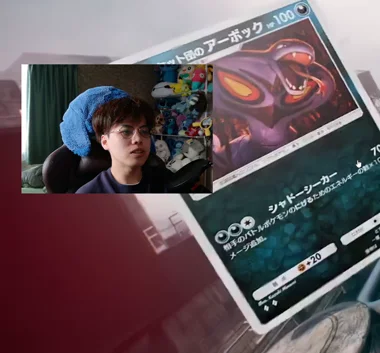
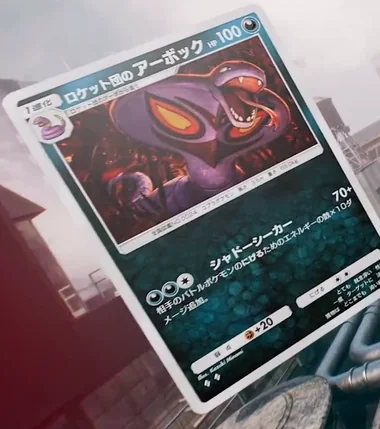
ポケポケ: ロケット団の野望記事、アーボックのカード画像を顔カメラなしの公式映像に差し替え
進化段階表記(たね→1進化)も画面表記に合わせて修正

diff --git a/pokepoke/guide-rocket-dan-no-yabou.html b/pokepoke/guide-rocket-dan-no-yabou.html
@@ -231,7 +231,7 @@
         <figure><img src="cards/rocket_garagara.webp" alt="ガラガラ" width="190" height="248" loading="lazy"><figcaption>ガラガラ<br><span class="rar">闘・1進化</span></figcaption></figure>
         <figure><img src="cards/rocket_dekanuchan.webp" alt="ロケット団のデカヌチャン" width="190" height="288" loading="lazy"><figcaption>ロケット団のデカヌチャン<br><span class="rar">エスパー・2進化</span></figcaption></figure>
         <figure><img src="cards/rocket_delvil.webp" alt="ロケット団のデルビル" width="190" height="288" loading="lazy"><figcaption>ロケット団のデルビル<br><span class="rar">炎・たね</span></figcaption></figure>
-        <figure><img src="cards/rocket_arbok.webp" alt="ロケット団のアーボック" width="190" height="177" loading="lazy"><figcaption>ロケット団のアーボック<br><span class="rar">悪・たね</span></figcaption></figure>
+        <figure><img src="cards/rocket_arbok.webp" alt="ロケット団のアーボック" width="190" height="215" loading="lazy"><figcaption>ロケット団のアーボック<br><span class="rar">悪・1進化</span></figcaption></figure>
         <figure><img src="cards/rocket_sleeper.webp" alt="ロケット団のスリーパー" width="190" height="173" loading="lazy"><figcaption>ロケット団のスリーパー<br><span class="rar">エスパー・1進化</span></figcaption></figure>
         <figure><img src="cards/rocket_dorobou_machine.webp" alt="ロケット団のどろぼうマシン" width="190" height="212" loading="lazy"><figcaption>ロケット団のどろぼうマシン<br><span class="rar">グッズ</span></figcaption></figure>
         <figure><img src="cards/rocket_daisakusen.webp" alt="ロケット団の大作戦" width="190" height="203" loading="lazy"><figcaption>ロケット団の大作戦<br><span class="rar">サポート</span></figcaption></figure>
@@ -253,7 +253,7 @@
         <tr><td><strong>ガラガラ</strong></td><td>闘・1進化（カラカラから）</td><td>110</td><td>こらしめる50＋相手が「ロケット団」名なら+70。<strong>唯一「ロケット団の」が付かない収録カード</strong></td></tr>
         <tr><td><strong>ロケット団のデカヌチャン</strong></td><td>エスパー・2進化（ナカヌチャンから）</td><td>140</td><td>くいうちハンマー80＋次の相手の番、相手のワザ・にげるコストを無色2個分増加。弱点悪+20</td></tr>
         <tr><td><strong>ロケット団のデルビル</strong></td><td>炎・たね</td><td>60</td><td>ひだね（炎1）20ダメージ。弱点水+20／にげる1</td></tr>
-        <tr><td><strong>ロケット団のアーボック</strong></td><td>悪・たね</td><td>100</td><td>シャドーシーカー70＋相手のにげるエネの数×10追加。弱点格闘+20</td></tr>
+        <tr><td><strong>ロケット団のアーボック</strong></td><td>悪・1進化</td><td>100</td><td>シャドーシーカー70＋相手のにげるエネの数×10追加。弱点格闘+20</td></tr>
         <tr><td><strong>ロケット団のスリーパー</strong></td><td>エスパー・1進化</td><td>90</td><td>わなにはめる：相手ベンチと入れ替え、新しく出たポケモンに50。弱点悪+20</td></tr>
         <tr><td><strong>ロケット団のどろぼうマシン</strong></td><td>グッズ</td><td>-</td><td>相手のトラッシュからグッズ（本カードを除く）をランダムに1枚、自分の手札に加える</td></tr>
         <tr><td><strong>ロケット団の大作戦</strong></td><td>サポート</td><td>-</td><td>相手をこんらんに。コイン1回投げウラなら自分もこんらんに</td></tr>
